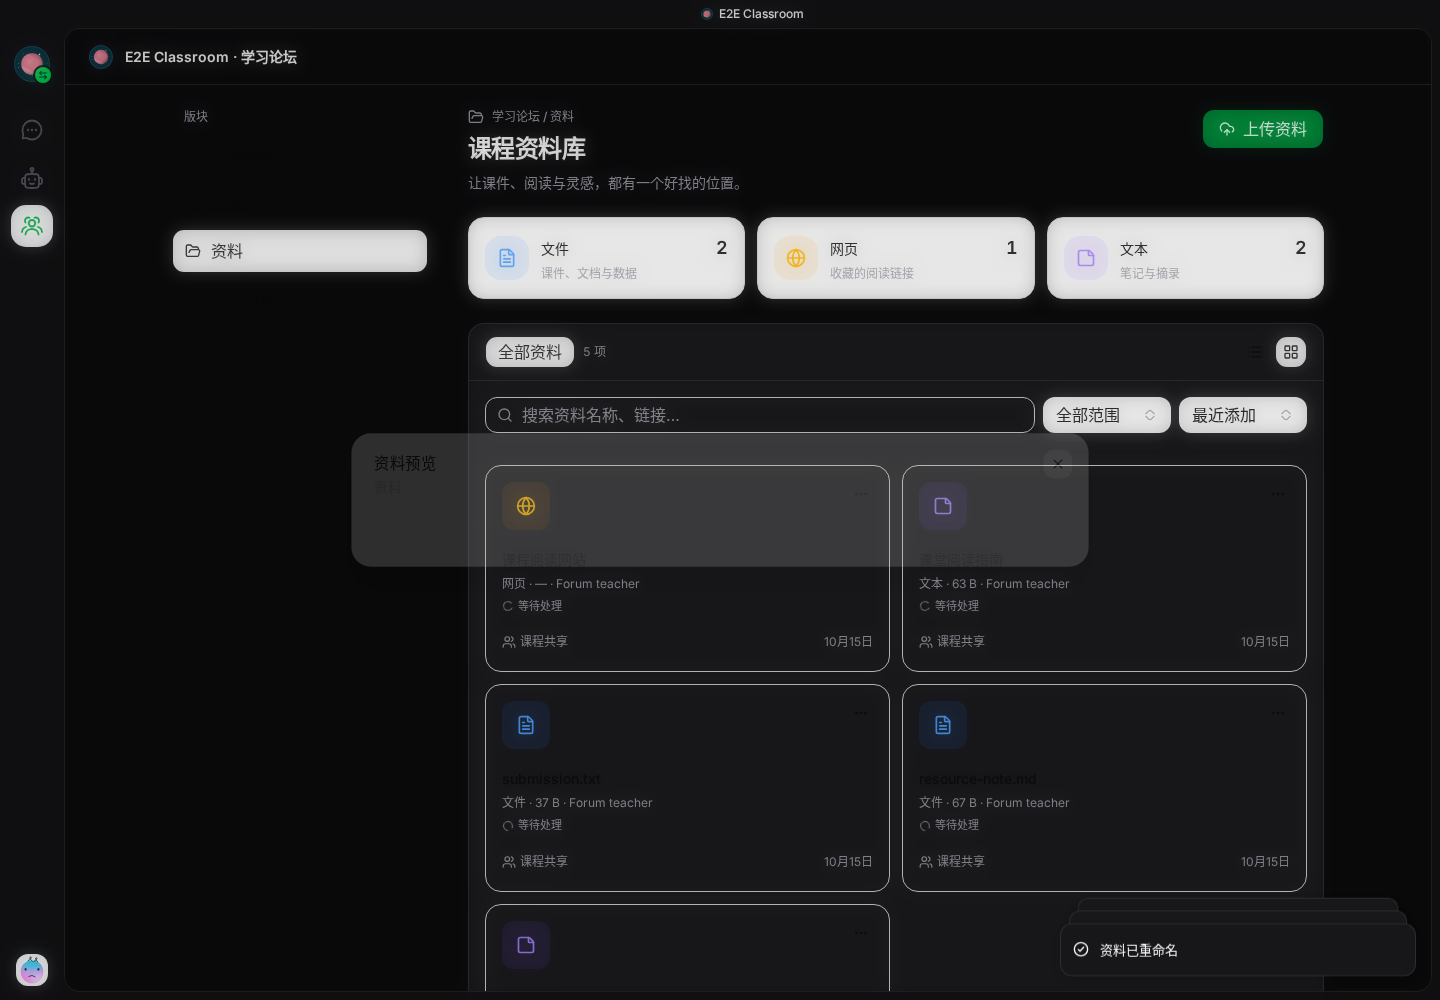
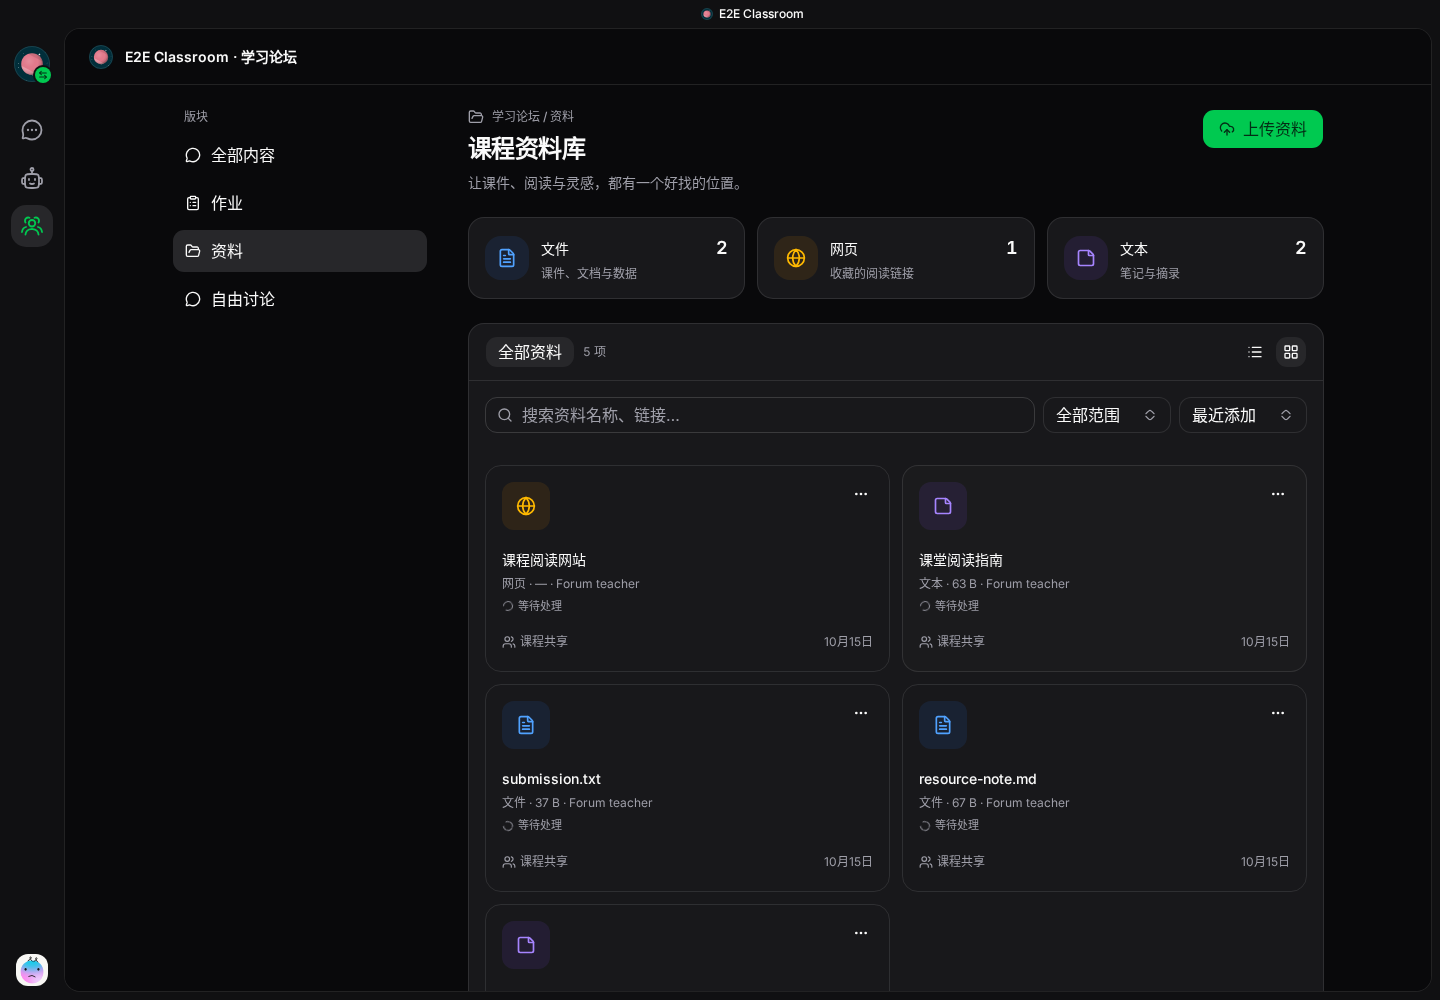
test(forum): capture resource library after transitions settle

diff --git a/e2e/forum/resources.e2e.ts b/e2e/forum/resources.e2e.ts
@@ -46,6 +46,7 @@ test('independent forum library, upload, filtering, privacy and responsive navig
   await expect(screen.getByRole('button', '打开资料：课堂阅读笔记')).toHaveCount(0)
   await screen.getByRole('button', '全部资料', { exact: true }).tap()
   await screen.getByRole('button', '网格视图').tap()
+  await expect(browser.locator('[data-sonner-toast]').first()).toBeHidden()
   await app.screenshot('resources-grid-light')
   await screen.getByRole('button', '资料操作：课堂阅读笔记').tap()
   await screen.getByRole('menuitem', '重命名', { exact: true }).tap()
@@ -54,7 +55,10 @@ test('independent forum library, upload, filtering, privacy and responsive navig
   await screen.getByRole('button', '打开资料：课堂阅读指南').tap()
   await expect(screen.getByRole('dialog')).toContainText('课程成员可见')
   await browser.keyboard.press('Escape')
+  await expect(screen.getByRole('dialog')).toHaveCount(0)
   await browser.evaluate(() => { document.documentElement.classList.remove('light'); document.documentElement.classList.add('dark'); return true })
+  await expect(browser.locator('[data-sonner-toast]').first()).toBeHidden()
+  await expect.poll(() => browser.evaluate(() => document.getAnimations().filter(animation => animation.playState === 'running' && animation.effect?.getTiming().iterations !== Infinity).length)).toBe(0)
   await app.screenshot('resources-desktop-dark')
   await browser.setViewport({ width: 390, height: 844 })
   await expect(screen.getByRole('heading', '课程资料库')).toBeVisible()

diff --git a/docs/evidence/forum-resource-library/browser-summary.md b/docs/evidence/forum-resource-library/browser-summary.md
@@ -5,15 +5,15 @@
 
 |  | Test | Time |
 | --- | --- | --- |
-| 🟢 | **e2e/forum/browser.e2e.ts** · 1 passed | 27.0s |
-| 🟢 | inline Memos lifecycle, drafts, moderation, assignments and private history | 27.0s |
+| 🟢 | **e2e/forum/browser.e2e.ts** · 1 passed | 28.3s |
+| 🟢 | inline Memos lifecycle, drafts, moderation, assignments and private history | 28.3s |
 | 🟢 | **e2e/forum/composer.e2e.ts** · 2 passed | 7.2s |
-| 🟢 | composer bounds, cancellation, completion and blur (1440) | 4.2s |
-| 🟢 | composer bounds, cancellation, completion and blur (390) | 3.0s |
-| 🟢 | **e2e/forum/resources.e2e.ts** · 1 passed | 17.3s |
-| 🟢 | independent forum library, upload, filtering, privacy and responsive navigation | 17.3s |
-| 🟢 | **e2e/forum/retirement.e2e.ts** · 1 passed | 10.0s |
-| 🟢 | retired learning URLs, reload and browser history cannot restore old screens | 10.0s |
+| 🟢 | composer bounds, cancellation, completion and blur (1440) | 3.9s |
+| 🟢 | composer bounds, cancellation, completion and blur (390) | 3.2s |
+| 🟢 | **e2e/forum/resources.e2e.ts** · 1 passed | 21.3s |
+| 🟢 | independent forum library, upload, filtering, privacy and responsive navigation | 21.3s |
+| 🟢 | **e2e/forum/retirement.e2e.ts** · 1 passed | 10.4s |
+| 🟢 | retired learning URLs, reload and browser history cannot restore old screens | 10.4s |
 </details>
 
-<sub>e2e 0.17.0 · 1m 2s · forum</sub>
+<sub>e2e 0.17.0 · 1m 8s · forum</sub>
